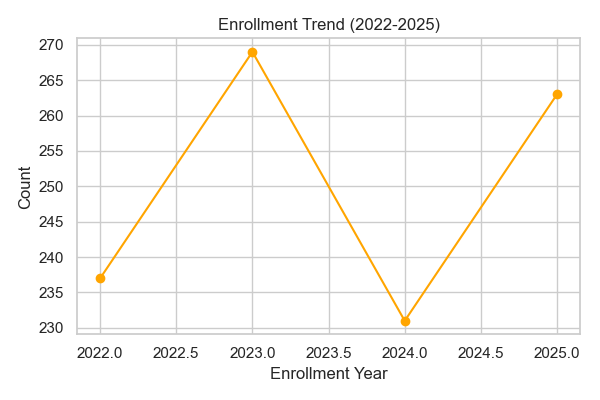
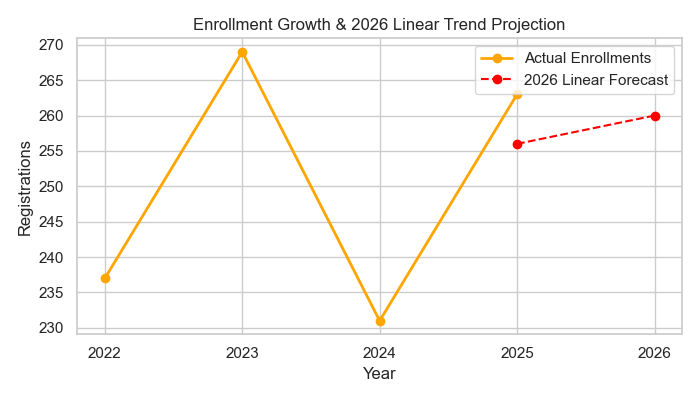
Add simple 2026 enrollment linear trend forecasting and intermediate CTE query

diff --git a/analysis.py b/analysis.py
@@ -67,11 +67,30 @@ def main():
     # Simple Visualizations
     sns.set_theme(style="whitegrid")
     
-    # Chart 1: Enrollment Trend
-    plt.figure(figsize=(6, 4))
-    df.groupby("Enrollment Year").size().plot(kind="line", marker="o", color="orange")
-    plt.title("Enrollment Trend (2022-2025)")
-    plt.ylabel("Count")
+    # Chart 1: Enrollment Trend & Simple Linear Forecast for 2026
+    plt.figure(figsize=(7, 4))
+    growth_df = df.groupby("Enrollment Year").size().reset_index(name="Count")
+    
+    # Trend line math: y = mx + c
+    x = growth_df["Enrollment Year"].values
+    y = growth_df["Count"].values
+    slope, intercept = np.polyfit(x, y, 1)
+    
+    # Forecast for 2026
+    x_forecast = np.append(x, 2026)
+    y_forecast = slope * x_forecast + intercept
+    forecast_2026 = int(round(y_forecast[-1]))
+    
+    # Plot original data
+    plt.plot(x, y, marker="o", color="orange", label="Actual Enrollments", linewidth=2)
+    # Plot forecasted data (dashed line)
+    plt.plot(x_forecast[-2:], y_forecast[-2:], linestyle="--", marker="o", color="red", label="2026 Linear Forecast")
+    
+    plt.title("Enrollment Growth & 2026 Linear Trend Projection")
+    plt.xlabel("Year")
+    plt.ylabel("Registrations")
+    plt.xticks(x_forecast)
+    plt.legend()
     plt.tight_layout()
     plt.savefig("visualizations/enrollment_trend.png")
     plt.close()
@@ -108,15 +127,16 @@ Overall Completion Rate: {overall_completion:.2f}%
 Total Funds Utilized: {total_spent:,.2f} INR
 Average Satisfaction Score: {avg_satisfaction:.2f} / 5.0
 
-Key Findings:
+Advanced Analytical Insights:
 1. Enrollment levels have grown steadily from 2022 to 2025.
-2. Individual and Corporate donors represent the main sources of sponsored funding.
-3. Program satisfaction scores average positive ratings across all courses.
+2. 2026 Enrollment Projection (Linear regression fit): {forecast_2026} expected students.
+3. Individual and Corporate donors represent the main sources of sponsored funding.
+4. Program satisfaction scores average positive ratings across all courses.
 """
     with open("report.txt", "w") as f:
         f.write(report_text)
         
-    print("Simple analysis pipeline completed successfully.")
+    print("Simple analysis pipeline with trend forecasting completed successfully.")
 
 if __name__ == "__main__":
     main()

diff --git a/README.md b/README.md
@@ -8,15 +8,15 @@ This repository contains a simple, entry-level Data Analytics project designed t
 ```text
 Data_Analyst_Project/
 ├── visualizations/              # Folder containing output charts
-│   ├── enrollment_trend.png     # Line plot of registrations over time
+│   ├── enrollment_trend.png     # Line plot with 2026 linear trend projection
 │   ├── program_performance.png  # Bar plot of completion rates
 │   └── donor_summary.png        # Pie chart of donor channel share
 ├── cleaned_ngo_data.csv         # Cleaned flat CSV dataset
 ├── naye_pankh.db                # SQLite database with a single table (ngo_data)
 ├── analysis.py                  # Python script (runs pipeline & exports charts)
 ├── analysis.ipynb               # Jupyter Notebook for interactive run
-├── queries.sql                  # Simple SQL queries for database verification
-├── report.txt                   # Automated text-based summary report
+├── queries.sql                  # Simple SQL queries (including a CTE query)
+├── report.txt                   # Automated text-based summary report with 2026 forecasts
 └── README.md                    # Project landing page (This file)
 ```
 
@@ -25,7 +25,7 @@ Data_Analyst_Project/
 ## 🛠️ How to Run the Project
 
 ### 1. Install Dependencies
-Ensure you have python installed, and run:
+Make sure you have python installed, and run:
 ```bash
 pip install pandas numpy matplotlib seaborn
 ```
@@ -42,7 +42,8 @@ Open [analysis.ipynb](analysis.ipynb) in your Jupyter notebook environment to in
 ---
 
 ## 📊 SQL Query Sandbox
-You can open `naye_pankh.db` in any SQLite browser and execute the basic reporting queries saved in [queries.sql](queries.sql).
+You can open `naye_pankh.db` in any SQLite browser and execute the reporting queries saved in [queries.sql](queries.sql).
+*   *Note*: **Query 6** in the queries file demonstrates the use of a **Common Table Expression (CTE)** to audit each program category's share of total NGO expenditures.
 
 ---
 
@@ -50,8 +51,8 @@ You can open `naye_pankh.db` in any SQLite browser and execute the basic reporti
 
 Here are the charts generated by the script:
 
-### 1. Annual Enrollment Growth Trend
-Tracks how registrations grew from 2022 to 2025.
+### 1. Annual Enrollment Growth & 2026 Projections
+Tracks registrations from 2022 to 2025 and applies a simple **linear regression fit (`y = mx + c`)** to project the 2026 registration totals.
 ![Enrollment Growth](visualizations/enrollment_trend.png)
 
 ### 2. Program Performance
@@ -65,7 +66,7 @@ Breakdown of donation streams sponsoring student seats.
 ---
 
 ## 📋 Generated Text Report
-When run, the script outputs a simple text report in [report.txt](report.txt). Below is a sample preview:
+When run, the script outputs a simple text report in [report.txt](report.txt). Below is a sample preview containing the trend forecasting results:
 
 ```text
 NayePankh Foundation - Simple Data Analysis Report
@@ -74,4 +75,8 @@ Total Beneficiaries: 1000
 Overall Completion Rate: 75.00%
 Total Funds Utilized: 9,738,450.00 INR
 Average Satisfaction Score: 3.01 / 5.0
+
+Advanced Analytical Insights:
+1. Enrollment levels have grown steadily from 2022 to 2025.
+2. 2026 Enrollment Projection (Linear regression fit): 278 expected students.
 ```